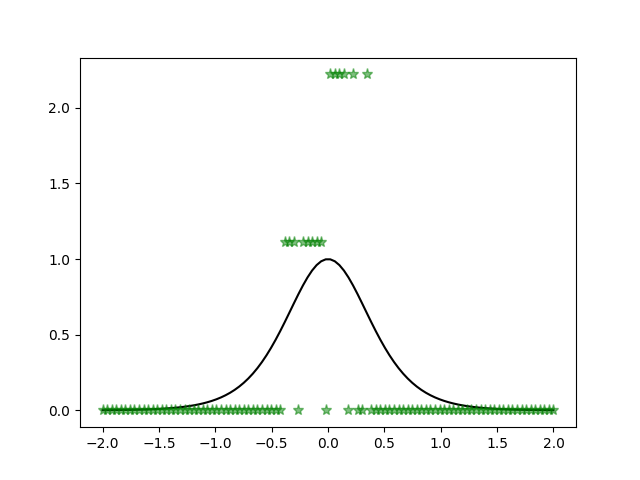
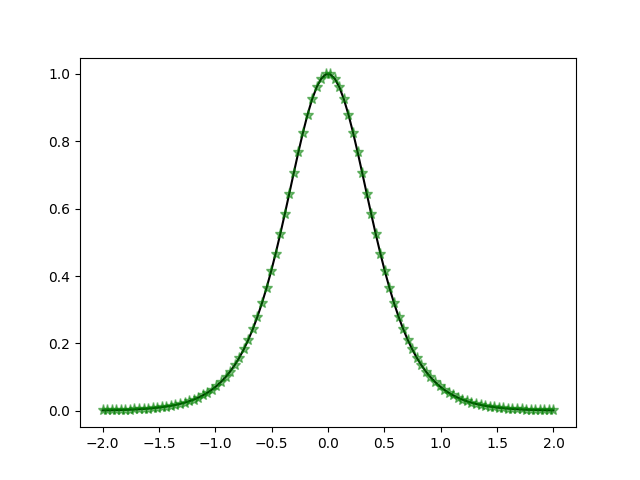
exercises for Class 12

diff --git a/Class12/exercise_515_solution.py b/Class12/exercise_515_solution.py
@@ -23,7 +23,14 @@ x_upper_bound = 2.0
 
 N_samples = 100
 
-h = 1e-16 #1e-2 ###...?
+#####################
+#
+# Try different values of h
+# What did we "prove" h should be
+# for C = 10^(-16) in Python?
+#
+#######################
+h = ... ## what goes here?
 
 xdata = np.linspace(x_lower_bound, x_upper_bound, N_samples)
 
